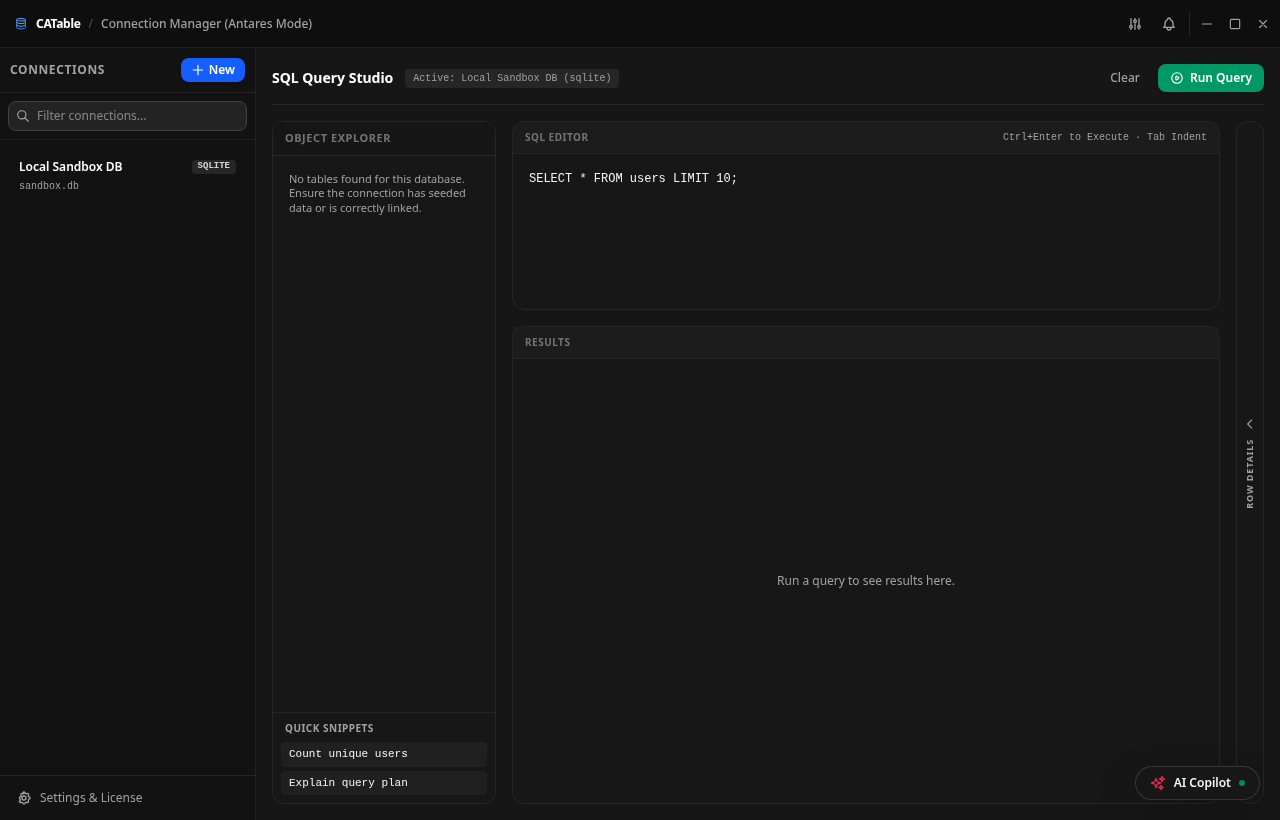
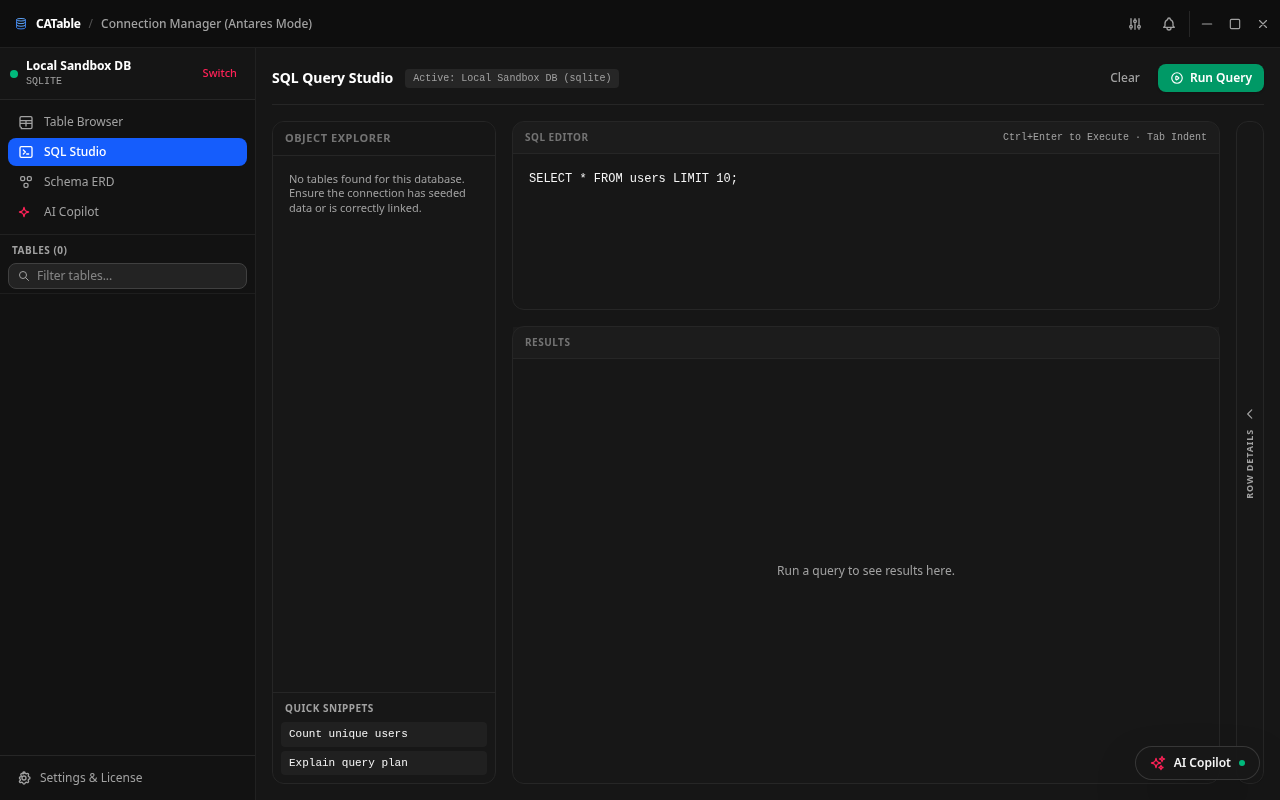
Prepare 1.0.1 release and refresh screenshots
Bump the app version across Rust, Tauri, and frontend configs. Keep the settings license tab visible, adjust connection-manager navigation and layout, and add an SPA server and screenshot capture script for refreshed product screenshots.

diff --git a/frontend/src/routes/+page.svelte b/frontend/src/routes/+page.svelte
@@ -11,6 +11,7 @@
   import { showToast } from '$lib/stores/uiNotifications.svelte';
   import { invoke } from '@tauri-apps/api/core';
   import { goto } from '$app/navigation';
+  import { page } from '$app/state';
   import EmptyState from '$lib/components/EmptyState.svelte';
   import LoadingState from '$lib/components/LoadingState.svelte';
 
@@ -20,6 +21,8 @@
   let isTesting = $state(false);
   let testResult = $state<{ success: boolean; message: string } | null>(null);
   let activeSection = $state<'connections'>('connections');
+  let activeTab = $state<'general' | 'ssh' | 'advanced'>((page.url.searchParams.get('tab') as any) || 'general');
+  let showDbPassword = $state(false);
 
   // SSH Tunnel states
   let isSshAccordionOpen = $state(false);
@@ -30,6 +33,12 @@
 
   onMount(async () => {
     await dbStore.loadConnections();
+    if (page.url.searchParams.get('tab') === 'ssh' && form.ssh_tunnel) {
+      form.ssh_tunnel.enabled = true;
+      form.ssh_tunnel.host = 'bastion.example.com';
+      form.ssh_tunnel.user = 'ubuntu';
+      form.ssh_tunnel.key_path = '~/.ssh/id_ed25519';
+    }
   });
 
   const ENV_COLORS: Record<string, string> = {
@@ -678,7 +687,7 @@
   {/if}
 
   <!-- Bottom Actions Footer (Antares SQL Style) -->
-  <div class="mt-8 pt-4 border-t border-neutral-200 dark:border-neutral-800 flex items-center justify-between shrink-0">
+  <div class="mt-8 pt-4 pb-16 border-t border-neutral-200 dark:border-neutral-800 flex items-center justify-between shrink-0">
     <button
       type="button"
       onclick={handleTest}

diff --git a/frontend/src/routes/settings/+page.svelte b/frontend/src/routes/settings/+page.svelte
@@ -190,12 +190,8 @@
   const requestedTab = page.url.searchParams.get('tab') ?? '';
   let activeTab = $state<SettingsTab>((TABS as readonly string[]).includes(requestedTab) ? (requestedTab as SettingsTab) : 'profile');
 
-  // Subscription only makes sense once the user has a CATable account (Cloud): a purely local
-  // vault has nothing to subscribe to. Hidden until sign-in, shown for both free-cloud and Pro.
-  const visibleTabs = $derived(TABS.filter((tab) => tab !== 'subscription' || pro.status?.signedIn));
-  $effect(() => {
-    if (activeTab === 'subscription' && pro.status && !pro.status.signedIn) activeTab = 'profile';
-  });
+  // License & Subscription tab is always visible for sovereign offline or cloud licensing
+  const visibleTabs = $derived(TABS);
 
   const updater = getUpdater();
   const downloadPercent = $derived(

diff --git a/frontend/src/routes/+layout.svelte b/frontend/src/routes/+layout.svelte
@@ -236,7 +236,7 @@
       class="hidden md:flex flex-col shrink-0 border-r border-neutral-200 dark:border-neutral-800/80 bg-neutral-50/50 dark:bg-[#121212] {isCollapsed ? 'w-14' : 'w-64'} transition-all duration-150"
       aria-label="Sidebar Navigasi Database"
     >
-      {#if !dbStore.isConnected || page.url.pathname === '/'}
+      {#if page.url.pathname === '/' || page.url.pathname === '/settings'}
         <!-- ============================================== -->
         <!-- ANTARES SQL STYLE: CONNECTION MANAGER SIDEBAR -->
         <!-- ============================================== -->
